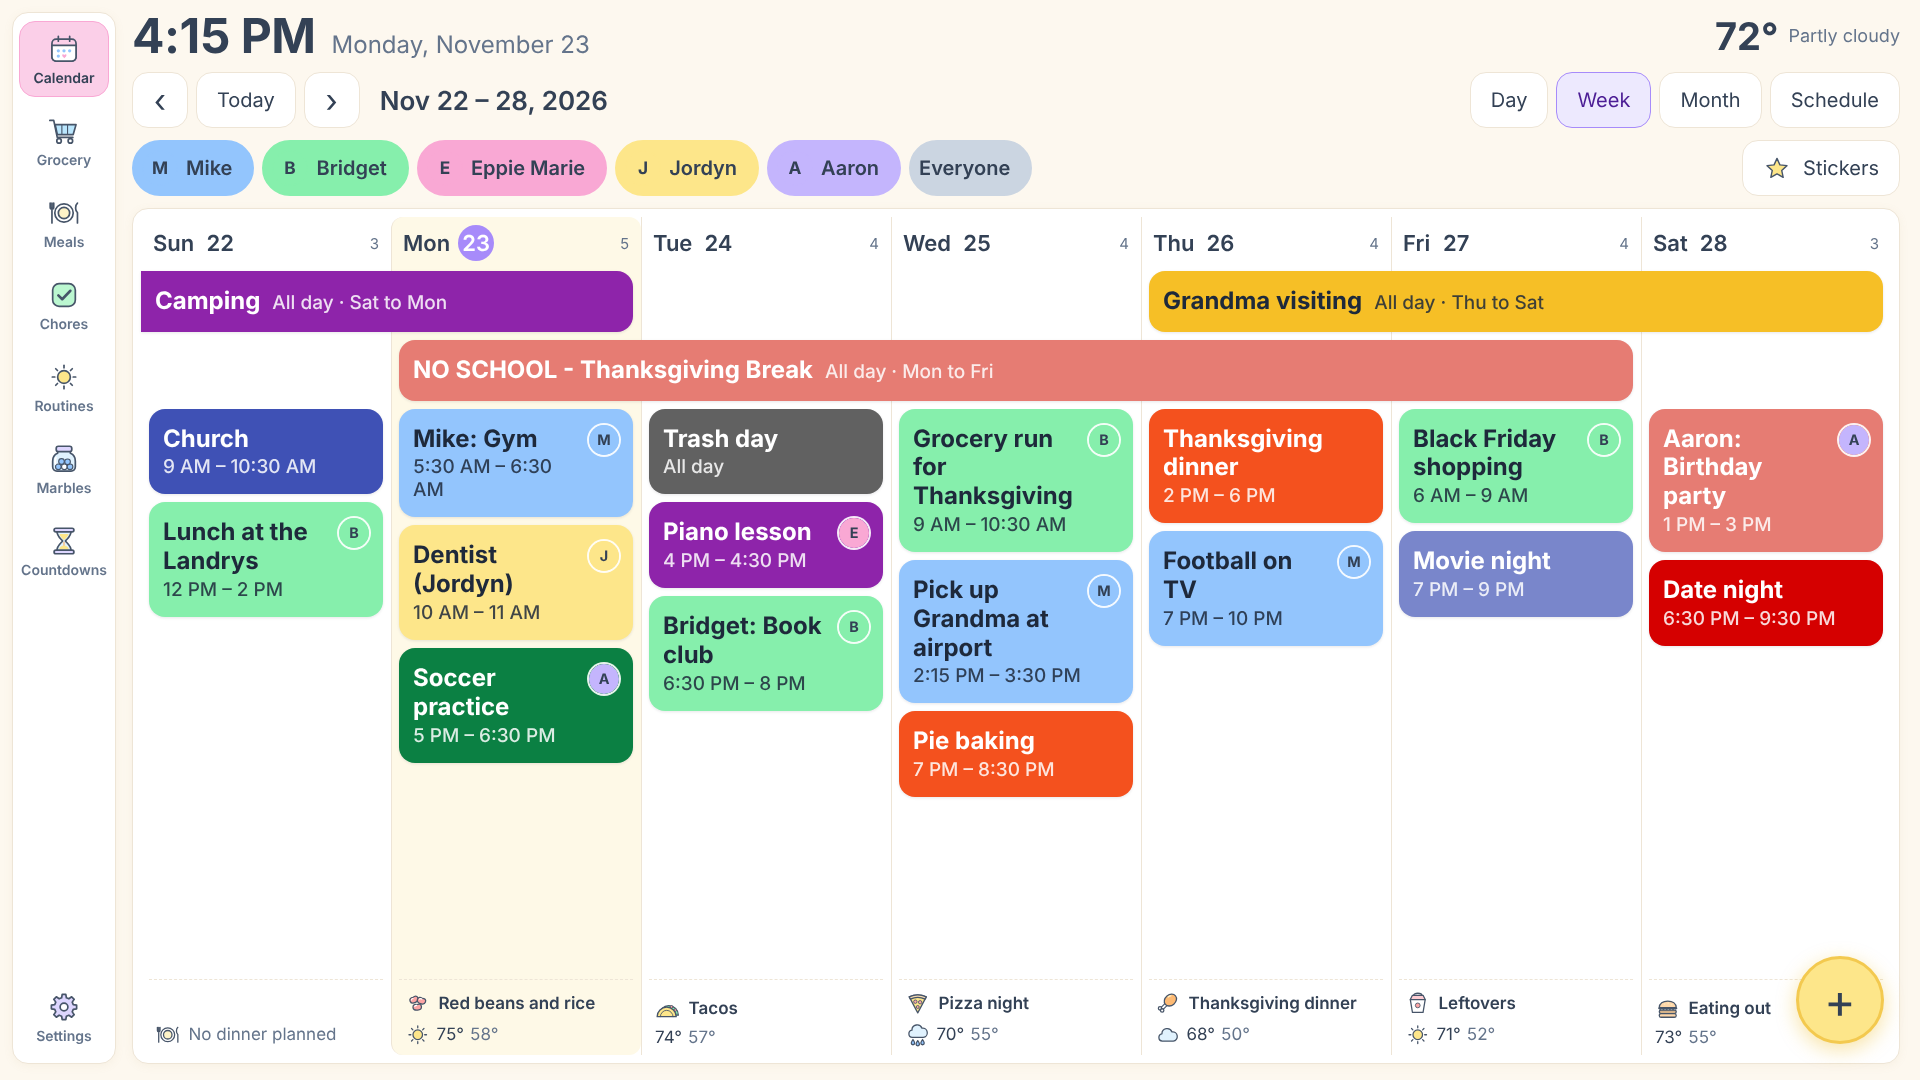
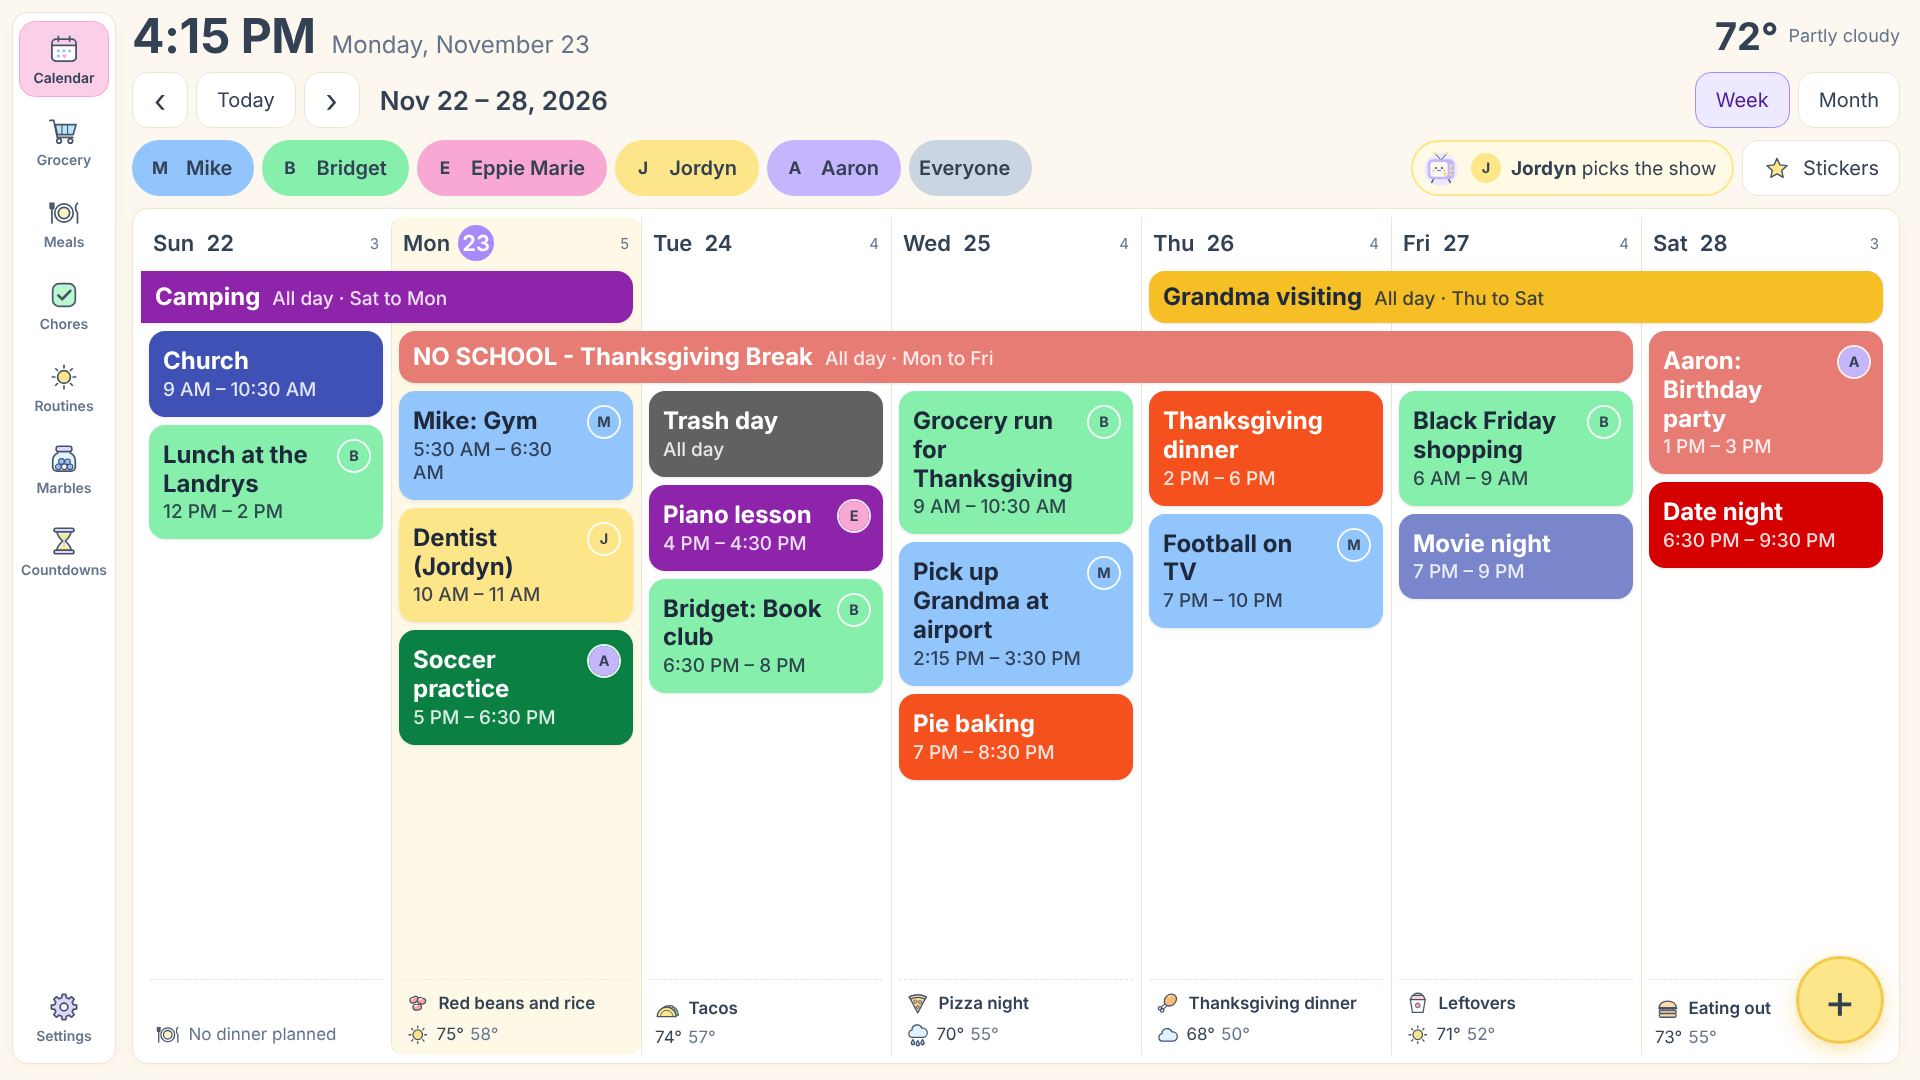
Calendar: Week/Month only on the wall, show night badge, swipe to change weeks; cards rise under ended bars
- Remove Day and Schedule from the wall (phones keep Month + Schedule list).
- Show night badge (TV, avatar, who picks) next to Stickers; tap opens Marbles.
- Swipe left/right on the calendar for next/previous week or month; the click
  after a swipe is swallowed so it doesn't open an event. Drag-select is
  phone-only so swipes don't select a range.
- Each day's cards now start right under the bars crossing that day, instead
  of under all bars.

Claude-Session: https://claude.ai/code/session_01DiwQaFStTdGog1yY3tiaqs

diff --git a/frontend/src/App.jsx b/frontend/src/App.jsx
@@ -15,7 +15,7 @@ import useIsPhone from './useIsPhone.js'
 import Screensaver from './Screensaver.jsx'
 import GroceryList from './GroceryList.jsx'
 import Chores from './Chores.jsx'
-import Marbles from './Marbles.jsx'
+import Marbles, { ShowNightBadge } from './Marbles.jsx'
 import Meals from './Meals.jsx'
 import Routines from './Routines.jsx'
 import { ROUTINE, activeKind } from './routineTime.js'
@@ -26,16 +26,18 @@ import { applyTheme, themeById } from './themes.js'
 import { ListDayStickers, StickerLayer, StickerPicker, toDay } from './Stickers.jsx'
 
 const VIEWS = [
-  { id: 'timeGridDay', label: 'Day' },
   { id: 'dayGridAgendaWeek', label: 'Week' },
   { id: 'dayGridMonth', label: 'Month' },
-  { id: 'listTwoWeeks', label: 'Schedule' },
+  { id: 'listTwoWeeks', label: 'Schedule' }, // phones only
 ]
 const AGENDA = 'dayGridAgendaWeek'
 const DEFAULT_VIEW = AGENDA
-// A week of columns is unreadable on a phone, so phones start on the two-week schedule and skip Week
+// A week of columns is unreadable on a phone, so phones get the two-week schedule list instead of Week.
+// The wall has Week and Month only.
 const PHONE_VIEW = 'listTwoWeeks'
-const PHONE_VIEWS = new Set(['timeGridDay', 'dayGridMonth', 'listTwoWeeks'])
+const PHONE_VIEWS = new Set(['dayGridMonth', 'listTwoWeeks'])
+const WALL_VIEWS = new Set(['dayGridAgendaWeek', 'dayGridMonth'])
+const SWIPE_PX = 80 // a sideways swipe this long on the calendar moves to the next/previous week or month
 const UNASSIGNED_COLOR = '#cbd5e1'
 const IDLE_RESET_MS = 2 * 60 * 1000 // go back to today after 2 minutes untouched
 
@@ -48,6 +50,8 @@ export default function App() {
   const [health, setHealth] = useState(null)
   const [view, setView] = useState(DEFAULT_VIEW)
   const [fcEvents, setFcEvents] = useState([])
+  const [showNight, setShowNight] = useState(null)
+  const swipe = useRef(null)
   const [weekStart, setWeekStart] = useState(null)
   const [viewing, setViewing] = useState(null) // { row, color } of the event being looked at
   const [title, setTitle] = useState('')
@@ -84,6 +88,13 @@ export default function App() {
   const refetch = useCallback(() => calRef.current?.getApi().refetchEvents(), [])
 
   const loadPeople = useCallback(() => api.people().then(setPeople).catch(() => {}), [])
+  // whose night it is to pick the TV show, for the badge on the calendar; re-checked hourly so it turns over at midnight
+  useEffect(() => {
+    const load = () => api.showNight().then(setShowNight).catch(() => {})
+    load()
+    const t = setInterval(load, 60 * 60 * 1000)
+    return () => clearInterval(t)
+  }, [marblesVersion])
   const loadWeather = useCallback(() => api.weather().then(setWeather).catch(() => {}), [])
   const loadHealth = useCallback(() => api.health().then(setHealth).catch(() => setHealth(null)), [])
   const loadPhotos = useCallback(() => api.photos().then(setPhotos).catch(() => {}), [])
@@ -350,7 +361,7 @@ export default function App() {
         </div>
         <CountdownStrip countdowns={countdowns} max={isPhone ? 1 : 2} onOpen={() => setSection('countdowns')} />
         <div className="views">
-          {VIEWS.filter((v) => !isPhone || PHONE_VIEWS.has(v.id)).map((v) => (
+          {VIEWS.filter((v) => (isPhone ? PHONE_VIEWS : WALL_VIEWS).has(v.id)).map((v) => (
             <button
               key={v.id}
               className={view === v.id ? 'on' : ''}
@@ -383,6 +394,12 @@ export default function App() {
         </button>
         {health?.last_error && <span className="sync-error">Sync problem: check the backend logs</span>}
         {health?.mode === 'demo' && <span className="demo">Demo data</span>}
+        <ShowNightBadge
+          show={showNight}
+          peopleById={peopleById}
+          theme={config.theme ?? ''}
+          onOpen={() => setSection('marbles')}
+        />
         <button className="sticker-btn" onClick={() => setStickerPicker(true)}>
           <Icon name="star" /> Stickers
         </button>
@@ -398,7 +415,27 @@ export default function App() {
         </div>
       )}
 
-      <main className={`calendar${view === AGENDA ? ' agenda-mode' : ''}`}>
+      <main
+        className={`calendar${view === AGENDA ? ' agenda-mode' : ''}`}
+        onPointerDown={(e) => {
+          // stickers have their own drag; leave those alone
+          swipe.current = placing || e.target.closest('.sticker') ? null : { x: e.clientX, y: e.clientY, t: Date.now() }
+        }}
+        onPointerUp={(e) => {
+          const s = swipe.current
+          swipe.current = null
+          if (!s) return
+          const dx = e.clientX - s.x
+          const dy = e.clientY - s.y
+          if (Math.abs(dx) < SWIPE_PX || Math.abs(dy) > Math.abs(dx) * 0.6 || Date.now() - s.t > 800) return
+          // a swipe, not a tap: don't let the click that follows open an event or a new-event form
+          const swallow = (ev) => { ev.stopPropagation(); ev.preventDefault() }
+          window.addEventListener('click', swallow, { capture: true, once: true })
+          setTimeout(() => window.removeEventListener('click', swallow, { capture: true }), 400)
+          if (dx < 0) cal()?.next()
+          else cal()?.prev()
+        }}
+      >
         <FullCalendar
           ref={calRef}
           plugins={[dayGridPlugin, timeGridPlugin, listPlugin, interactionPlugin]}
@@ -425,7 +462,7 @@ export default function App() {
           eventsSet={setFcEvents}
           height="100%"
           nowIndicator
-          selectable
+          selectable={isPhone}
           selectLongPressDelay={250}
           dayMaxEvents={isPhone ? 2 : 4}
           scrollTime="06:00:00"

diff --git a/frontend/src/styles.css b/frontend/src/styles.css
@@ -683,7 +683,8 @@ button[aria-label] > .ic:only-child, .icon-pick .ic, .icon-grid .ic { margin-rig
 .calendar.agenda-mode .fc { visibility: hidden; pointer-events: none; }
 .agenda-week {
   position: absolute; inset: 8px; display: grid;
-  grid-template-columns: repeat(7, minmax(0, 1fr)); grid-template-rows: auto auto minmax(0, 1fr);
+  grid-template-columns: repeat(7, minmax(0, 1fr)); grid-template-rows: auto minmax(0, 1fr);
+  --lane-h: 52px; --lane-gap: 8px;
 }
 /* full-height column backgrounds: the divider lines and today's tint, behind everything else */
 .agenda-col { grid-row: 1 / -1; border-left: 1px solid var(--line); }
@@ -691,8 +692,14 @@ button[aria-label] > .ic:only-child, .icon-pick .ic, .icon-grid .ic { margin-rig
 .agenda-col.today { background: var(--today); border-radius: 12px; }
 .agenda-day { display: flex; flex-direction: column; min-height: 0; }
 /* bars for events that run across several days */
-.agenda-spans { display: grid; grid-template-columns: repeat(7, minmax(0, 1fr)); grid-auto-rows: auto; gap: 8px 0; padding-bottom: 8px; position: relative; }
-.agenda-card.agenda-span { margin: 0 8px; width: auto; align-items: center; }
+.agenda-spans {
+  display: grid; grid-template-columns: repeat(7, minmax(0, 1fr)); grid-auto-rows: var(--lane-h); gap: var(--lane-gap) 0;
+  align-self: start; position: relative; z-index: 2; pointer-events: none;
+}
+.agenda-spans .agenda-span { pointer-events: auto; }
+/* each day's cards start under only the bars that cross that day */
+.agenda-day .agenda-day-body { padding-top: calc(var(--lanes, 0) * (var(--lane-h) + var(--lane-gap))); }
+.agenda-card.agenda-span { margin: 0 8px; width: auto; height: var(--lane-h); padding-top: 0; padding-bottom: 0; align-items: center; overflow: hidden; }
 .agenda-span .agenda-text { flex-direction: row; align-items: baseline; gap: 12px; }
 .agenda-span .agenda-title { white-space: nowrap; overflow: hidden; text-overflow: ellipsis; min-width: 0; }
 .agenda-span .agenda-when { white-space: nowrap; margin: 0; flex: none; }
@@ -744,3 +751,17 @@ button[aria-label] > .ic:only-child, .icon-pick .ic, .icon-grid .ic { margin-rig
 .agenda-card .avatar { border-radius: 50%; }
 .agenda-day-foot { min-height: 72px; justify-content: flex-end; }
 .agenda-day:last-child .agenda-day-foot { padding-right: 84px; } /* room for the + button */
+
+/* show night badge in the calendar's people row (Marbles.jsx ShowNightBadge) */
+.show-badge {
+  margin-left: auto; display: inline-flex; align-items: center; gap: 10px; padding: 0 16px 0 8px;
+  border: 2px solid var(--chip, var(--line)); border-radius: 999px; font-size: 19px; white-space: nowrap;
+  background: color-mix(in srgb, var(--chip, var(--line)) 22%, var(--panel));
+}
+.show-badge .ic.tv { flex: none; width: 40px; height: 40px; margin: 0; }
+.show-badge .avatar { flex: none; }
+.show-badge + .sticker-btn { margin-left: 0; }
+@media (max-width: 700px) {
+  .people .show-badge { flex: none; min-height: 40px; font-size: 15px; margin-left: 4px; padding: 0 10px 0 4px; gap: 6px; }
+  .people .show-badge .ic.tv { width: 30px; height: 30px; }
+}

diff --git a/frontend/src/AgendaWeek.jsx b/frontend/src/AgendaWeek.jsx
@@ -101,7 +101,7 @@ function useDinners(start, version) {
   return byDay
 }
 
-function DayColumn({ day, col, events, size, peopleById, dinner, weather, onEvent, onDay }) {
+function DayColumn({ day, col, lanes, events, size, peopleById, dinner, weather, onEvent, onDay }) {
   const bodyRef = useRef(null)
   const [overflows, setOverflows] = useState(false)
   const compact = events.length >= COMPACT_AT
@@ -117,7 +117,7 @@ function DayColumn({ day, col, events, size, peopleById, dinner, weather, onEven
   }, [events.length, size])
 
   return (
-    <section className="agenda-day" data-date={toDay(day)} style={{ gridColumn: col, gridRow: 3 }}>
+    <section className="agenda-day" data-date={toDay(day)} style={{ gridColumn: col, gridRow: 2, '--lanes': lanes }}>
       <div
         ref={bodyRef}
         className={`agenda-day-body${compact ? ' compact' : ''}${overflows ? ' more' : ''}`}
@@ -175,6 +175,8 @@ export default function AgendaWeek({ start, events, peopleById, weather, mealsVe
   const perDay = days.map((d) => eventsOn(events, d))
   const cards = perDay.map((list) => list.filter((e) => !inSpan.has(e)))
   const size = sizeFor(Math.max(0, ...cards.map((l) => l.length)))
+  // how many bar lanes sit over each day, so that day's cards start right under its own bars
+  const lanesOn = days.map((_, i) => Math.max(0, ...spans.filter((sp) => sp.from <= i && i < sp.to).map((sp) => sp.lane + 1)))
   const dinners = useDinners(start, mealsVersion)
   const forecast = Object.fromEntries((weather?.days ?? []).map((d) => [d.date, d]))
   const today = toDay(new Date())
@@ -226,6 +228,7 @@ export default function AgendaWeek({ start, events, peopleById, weather, mealsVe
           key={toDay(d)}
           day={d}
           col={i + 1}
+          lanes={lanesOn[i]}
           events={cards[i]}
           size={size}
           peopleById={peopleById}

diff --git a/frontend/src/Marbles.jsx b/frontend/src/Marbles.jsx
@@ -307,6 +307,19 @@ function ShowNight({ show, peopleById, theme, onSwap, onSetup }) {
   )
 }
 
+/** Small show-night badge for the calendar screen: TV, the kid's avatar and "picks tonight". Tap opens Marbles. */
+export function ShowNightBadge({ show, peopleById, theme, onOpen }) {
+  const kid = show && peopleById[show.tonight]
+  if (!kid) return null
+  return (
+    <button className="show-badge" style={{ '--chip': kid.color }} onClick={onOpen} aria-label={`Show night: ${kid.name} picks tonight`}>
+      <TvIcon theme={theme} size={40} />
+      <Avatar person={kid} size={30} />
+      <span><b>{kid.name}</b> picks the show</span>
+    </button>
+  )
+}
+
 export function Jar({ jar, person, leaving }) {
   const prev = useRef(jar.contents)
   const contents = jar.contents

diff --git a/frontend/src/api.js b/frontend/src/api.js
@@ -48,6 +48,7 @@ export const api = {
   copyRoutine: (body) => request('POST', '/api/routines/copy', body),
   addStarterRoutines: (kid_ids) => request('POST', '/api/routines/starter', { kid_ids }),
   marbles: () => request('GET', '/api/marbles'),
+  showNight: () => request('GET', '/api/show-night'),
   setShowNight: (person_ids) => request('PUT', '/api/show-night', { person_ids }),
   swapShowNight: () => request('POST', '/api/show-night/swap'),
   setJars: (person_ids) => request('PUT', '/api/marbles/jars', { person_ids }),

diff --git a/docs/screen-layout.md b/docs/screen-layout.md
@@ -13,8 +13,10 @@
 - **Card size follows the week.** When no day has more than 3 events the cards are big; up to 5 they're medium; busier weeks get standard cards.
 - **Busy days.** A day with 8 or more events switches to one-line cards (start time and title). If it still doesn't fit, only that day's column scrolls, and its bottom edge fades out so you can tell there's more. The other days stay put.
 - **Day footers.** The bottom of each column shows that night's dinner from the Meals page and that day's weather (icon, high and low). The forecast reaches 5 days ahead, so past days and days further out show dinner only.
-- **Events across several days join into one bar** under the day headings, like a visit or a school break. That also works when the same all-day event (same title and colour) was entered separately on back-to-back days, like "NO SCHOOL" Monday to Friday. Bars that start before or run past this week have a square end on that side. Tap a bar to see the event.
+- **Events across several days join into one bar** under the day headings, like a visit or a school break. That also works when the same all-day event (same title and colour) was entered separately on back-to-back days, like "NO SCHOOL" Monday to Friday. Bars that start before or run past this week have a square end on that side, and each day's cards start right under the bars that cross that day. Tap a bar to see the event.
 - Tap empty space in a column (or "+ Add" on an empty day) to add an event that day. Stickers work here too.
+- **Swipe** left or right anywhere on the calendar to go to the next or previous week (or month in Month view). The arrow buttons still work too.
+- **Show night** sits next to the Stickers button: the TV, the kid's picture and "picks the show". Tap it to go to the Marbles page, where Swap is.
 
 ![A busy Wednesday with one-line cards](agenda-busy.png)
 
@@ -22,11 +24,11 @@
 
 ![Event details with Close and Edit buttons](event-view.png)
 
-Tapping an event (in any view) opens its details: the date and time, who it's for, where, any notes from Google Calendar, and whether it repeats. Nothing changes until you tap **Edit**, which opens the same form as before. Close, or tapping outside, goes back to the calendar.
+Tapping an event (in Week or Month) opens its details: the date and time, who it's for, where, any notes from Google Calendar, and whether it repeats. Nothing changes until you tap **Edit**, which opens the same form as before. Close, or tapping outside, goes back to the calendar.
 
-## Day view
+## Views
 
-The Day view keeps the hourly layout and always shows 6 AM to 9 PM without scrolling, with bigger, bold event text. Events after 9 PM show in Week, Month and Schedule; to run the Day view later, change `slotMaxTime` in `frontend/src/App.jsx`.
+The wall has **Week** and **Month**. Phones have **Month** and **Schedule** (a two-week list), because seven columns don't fit on a phone.
 
 ## Different screens
 
@@ -36,7 +38,7 @@ The browser picks the layout from the window size, so the same app works on the 
 |---|---|
 | Wider than 1200 px | Full layout, weather shows temperature and conditions |
 | 700 to 1200 px | Weather shows just the temperature |
-| 700 px or narrower (phones) | The phone layout: tabs along the bottom. Phones open on the Schedule list and don't have the Week columns. |
+| 700 px or narrower (phones) | The phone layout: tabs along the bottom, Month and Schedule views. |
 
 If text looks too big or small on a particular screen, Ctrl + plus / Ctrl + minus zooms the page and the layout adjusts. Ctrl + 0 resets it. The Pi kiosk runs full screen, so it gets the most room.
 
